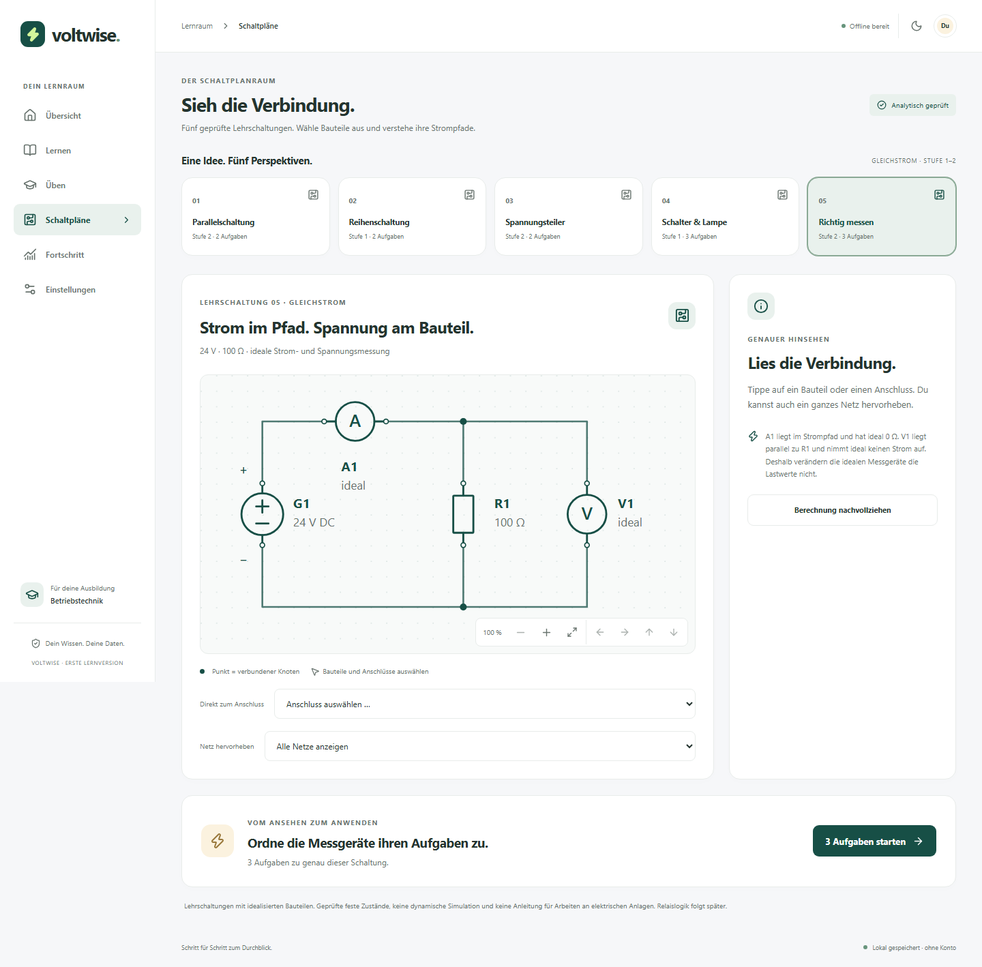
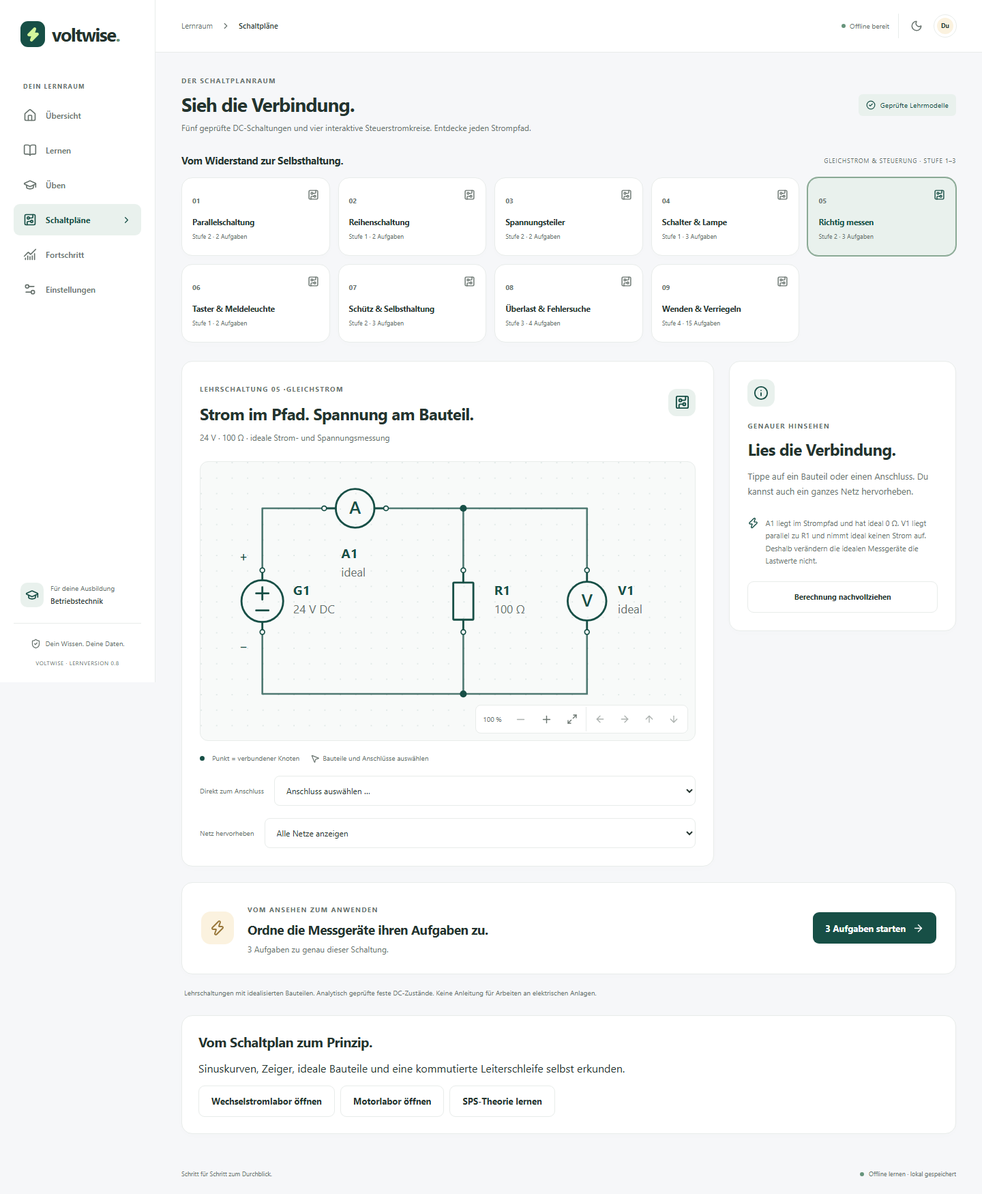
Document and release Voltwise 0.8 curriculum expansion

diff --git a/docs/SCHOOL_CURRICULUM.md b/docs/SCHOOL_CURRICULUM.md
@@ -1,0 +1,111 @@
+# Schulstoff und Labore — v0.8
+
+## Delivered scope
+
+The expansion adds **15 lessons, 75 curated exercises and 16 reproducible calculation families**. The complete curated catalogue now has **21 lessons and 136 exercises**. Existing DC, contactor, reversing, diagnostics, FSRS, backup and optional synchronization functionality remains available.
+
+| Area                 | New lessons | New exercises | Learning tools                                                                                                               |
+| -------------------- | ----------: | ------------: | ---------------------------------------------------------------------------------------------------------------------------- |
+| Wechselstromtechnik  |           6 |            29 | Sine/cursor animation, two voltage signals, phasors, ideal R/L/C, vector construction                                        |
+| Gleichstrommaschinen |           5 |            25 | Selectable cross-section, animated/stepped loop, commutation comparison, force/torque, counter-EMF, five excitation diagrams |
+| SPS-Grundlagen       |           4 |            21 | Theory, complete generator table, static verified FUP, FC/OB1/PLCSIM workflow, applied calculations                          |
+
+The user narrowed SPS to theory and learning exercises. A programmable SPS laboratory, FUP editor and hardware connection are deliberately outside this release. The Boolean graph code verifies the theory example; it is not an exposed editor or a TIA exporter.
+
+Open **Lernen** and use the grouped topic selector, or **Schaltpläne → Wechselstromlabor / Motorlabor**. The six top-level navigation entries remain. Topics stay accessible without prerequisite locks; prerequisites guide the mixed practice planner. New lessons start unread and new concepts have no invented score.
+
+The 75 tasks contain **23 numeric, 34 choice, 3 reviewable recall and 15 interactive applications**. Applications cover one waveform configuration, one phasor endpoint, three motor-component selections and ten multi-step calculations. Choice order is reproducibly varied. Only genuine recall facts offer separate explicit memory ratings; automatic correctness never becomes an FSRS rating.
+
+## Sources and editorial boundary
+
+The available attachment was a detailed curriculum specification. Neither `ROE: SPS TIA.pdf` nor `Arbeitsblatt 08-01.pdf` was present in the workspace; their scans and handwriting were **not inspected**. Page attribution is a scope mapping supplied by that specification, not a claim of direct transcription.
+
+Lessons and curated tasks carry `schulstoff-2026-10`, source A/B and page ranges. The core topics and classroom reference cases follow the supplied scope. All prose, diagrams, worked steps, additional examples and model assumptions are original didactic explanations. Generated variations are explicitly tagged `Ergänzende Erklärung`. The passive-load sign convention and precise motor angle geometry are documented teaching decisions.
+
+No worksheet scan, personal record or copied worksheet illustration is published. All diagrams use original SVG geometry; see [symbol provenance](CIRCUIT_SCHEMA.md). Secondary IP/cable/hexadecimal topics were not added. Ohm, power, series/parallel and measurement already have foundation coverage.
+
+Primary references consulted to check specific relationships, without copying their prose or artwork:
+
+- [OpenStax: simple AC circuits](https://openstax.org/books/university-physics-volume-2/pages/15-2-simple-ac-circuits): ideal R/L/C and lead/lag.
+- [OpenStax: current-loop force and torque](https://openstax.org/books/university-physics-volume-2/pages/11-5-force-and-torque-on-a-current-loop): vector force and angle-dependent torque. Our alpha is a radius angle; textbook normal-vector angles need conversion.
+- [Siemens: Function (FC)](https://docs.tia.siemens.cloud/r/simatic_s7_1200_manual_collection_enus_20/programming-concepts/using-blocks-to-structure-your-program/function-fc): no associated instance DB.
+- [Siemens SCE FC programming](https://www.automation.siemens.com/sce-static/learning-training-documents/tia-portal/basics-programming-s7-1200/sce-031-100-fc-programming-s7-1200-r1709-en.pdf): FC/OB1 and simulated testing workflow. V15.1 remains historical worksheet context, not a current-interface claim.
+
+Independent instructor review remains a separate editorial acceptance step.
+
+## AC conventions and equations
+
+`domain/ac.ts` contains pure SI calculations. Frequency/component values must be positive and finite. Unsupported zero-frequency/zero-component limits and overflow throw instead of displaying infinity.
+
+- `T = 1/f`, `ω = 2πf`, elapsed angle `α = ωt`.
+- `u(t) = Û sin(ωt + φ)`: positive φ leads the zero-phase sine.
+- `Ueff = Û/√2`, `Î = √2 Ieff`, only for a pure sine.
+- Same-frequency, same-quantity phasors: `x = U cos φ`, `y = U sin φ`, add components, use `atan2`. A zero-result angle displays 0° by convention.
+- R: `Ieff = Ueff/R`, current phase 0°, `P = Ueff Ieff`, `Q = 0`.
+- L: `XL = 2πfL`, `Ieff = Ueff/XL`, current phase −90°, `P = 0`, `Q = +Ueff Ieff`.
+- C: `XC = 1/(2πfC)`, `Ieff = Ueff/XC`, current phase +90°, `P = 0`, `Q = −Ueff Ieff`.
+
+Q uses the signed passive-load convention: inductive positive, capacitive negative, measured in var rather than W. The laboratory describes **one ideal component in sinusoidal steady state**. It does not solve arbitrary AC networks, transients, losses, saturation or equipment ratings.
+
+Waveforms share a 0…2T time window. At 50 Hz, T = 20 ms. The draggable model-time cursor controls values and synchronized rotating projections independently of zoom and pan. Animation is deliberately slowed; its refresh rate is not the electrical frequency. Voltage/current plots have separate V/A axes and solid/dashed curves. Their phasors are explicitly normalized to their own peaks. Vector addition instead labels actual RMS volts. Two voltage comparisons have their own clearly labeled amplitude scales.
+
+Independent fixtures: 325 V peak, 50 Hz, 1 ms → 18° and 100.430523 V. Also, 20 V at 0° + 15 V at 60° → x = 27.5 V, y = 12.990381 V, magnitude = 30.413813 V, angle = 25.284996°.
+
+## Motor convention and limits
+
+`domain/dc-motor.ts` models one loop with two axial active conductors. B points +x. Positive current in the first conductor points out of the drawing (+z), so `I·l × B` points +y. Alpha is its radius angle, counterclockwise from +x.
+
+The axial conductors remain perpendicular to B; each experiences `F = B I l`. The perpendicular lever arm changes, giving `M = 2 F r cos α` without commutation. The ideal split ring reverses current at 90°/270°. With original field/supply polarities, torque becomes `2 F r |cos α|`. Exact neutral contact is modeled as zero current. A single loop cannot self-start from its zero-torque dead position.
+
+Reference: B = 0.8 T, I = 2 A, l = 0.03 m → **0.048 N per conductor**. At r = 0.02 m, one perpendicular force contributes 0.00096 N·m; both together contribute **0.00192 N·m**. The factor two is not applied again as an additional conductor multiplier. Either field or supply reversal reverses torque; reversing both preserves it.
+
+Position, current arrows, forces, commutator and torque derive from the same angle state. Rotation speed is prescribed, not calculated from acceleration or load. Reduced-motion preference disables continuous motion but preserves steps and keyboard controls. Counter-EMF is a separate numeric operating point: `Ui = kΦω`, `IA = (U−Ui)/RA`; it is not inferred from animation speed. Ui > U gives signed generator current in this simplified equation.
+
+Seven selectable parts and five distinct excitation diagrams have explicit terminal/net membership. Compound winding sense is not assumed. Armature reaction, brush position, interpoles, compensation and bar/coil winding are taught qualitatively through explanations and cause/effect questions. No field solver, thermal model, real commutation transient, load characteristic or safety approval is represented.
+
+## SPS reference oracle
+
+Bit order: **E24.3 E24.2 E24.1 E24.0**. Motor powers 1…4: 2, 3, 5, 7 kW. **0 means running**, 1 means off. **A24.0 = 1 exactly when P < 10 kW**. The source introduction's “maximum 10 kW” is ambiguous; its explicit formula and supplied table govern this reproduction. Both 10-kW states are false.
+
+| Bits |  kW | A24.0 |
+| ---- | --: | ----: |
+| 1111 |   0 |     1 |
+| 1110 |   2 |     1 |
+| 1101 |   3 |     1 |
+| 1100 |   5 |     1 |
+| 1011 |   5 |     1 |
+| 1010 |   7 |     1 |
+| 1001 |   8 |     1 |
+| 1000 |  10 |     0 |
+| 0111 |   7 |     1 |
+| 0110 |   9 |     1 |
+| 0101 |  10 |     0 |
+| 0100 |  12 |     0 |
+| 0011 |  12 |     0 |
+| 0010 |  14 |     0 |
+| 0001 |  15 |     0 |
+| 0000 |  17 |     0 |
+
+`P/kW = 7(1−E24.3)+5(1−E24.2)+3(1−E24.1)+2(1−E24.0)`.
+
+Equivalent FUP: `(E24.1 ∧ E24.2) ∨ (E24.3 ∧ (E24.0 ∨ E24.1 ∨ E24.2))`. `boolean-logic.ts` checks gate arity, unique IDs, explicit input/`.Q` terminal references and absence of combinational cycles, even in unused branches. The reference graph is exhaustively compared to the independently declared 16-row oracle. The original static FUP has no implied junction at a wire crossing.
+
+## Persistence, IDs and units
+
+No new table, persisted draft or backup field is needed. **Dexie migrations remain 1→2→3; export stays format 3**, importing formats 1/2/3. Previous IDs, pending ratings, attempts, active sessions, diagnostic drafts and consent are preserved. No IndexedDB reset or Cloudflare production configuration change is used.
+
+`Exercise.type = application` has four strict bounded JSON `version: 1` answer kinds: waveform, physical phasor endpoint, motor part and named numeric steps. Unknown keys, invalid values, mismatched kinds and unsupported versions are rejected. They fit the existing 2000-character immutable answer field. Explicit submission uses the original transactional duplicate protection, session references, outbox and restore path. Backup and sync ingestion validate the same schema. Exploratory controls and unsubmitted forms are ephemeral; graded feedback/session position resume. Animation and slider streams never synchronize.
+
+New immutable IDs: `ac1-<family>-<code>`, `motor1-<family>-<code>`, `plc1-<family>-<code>`. Six-digit codes use fixed integer selection (LCG 1664525/1013904223, fixed name hash, parameter lists and draw order). Changing any released generator behavior requires a new prefix and retention of the old resolver. The old `dc1` implementation is unchanged. URLs contain only public selectors/codes. Existing active work resumes before a new round.
+
+AC has ten families: period, frequency, angle, RMS, peak, instantaneous value, XL, XC, R current, vector sum. Motor has four: force, two-conductor torque, armature current, startup current. SPS theory has two: active-low load and signed distance to the strict limit. Rounds contain 10/4/2 tasks respectively.
+
+`units.ts` separates physical dimensions, SI multipliers and display spellings. It supports s/ms, degrees/radians, H/mH, F/µF/nF, T/mT, N/mN, N·m/mN·m and var/kvar alongside previous units. Angle SI is radians. German decimal commas and compatible prefixes work. W and var, force and torque, or V and A are not interchangeable. Numeric tolerance is visible: new numeric/generated tasks use 0.1%, with ±10⁻⁹ at zero; multi-step fields show individual absolute bounds. Vector placement uses ±0.3 V/±1°; waveform settings use ±0.1 V/±0.1 Hz/±1°. Grading never compares screen pixels.
+
+## Evidence and remaining acceptance
+
+See [verification](VERIFICATION.md) for executed command results. Tests include independent AC/force/torque fixtures, waveform/phase consistency, every rotor degree and both polarity reversals, explicit excitation nets, all 16 PLC rows, invalid graph cases, every structured submission, 128-code sweeps across 16 generated families, pinned generator fixtures, old backups and pending ratings. Real local Worker/D1 tests transfer all four answer kinds and generated prefixes across three databases without duplicate events or invented memory reviews.
+
+Browser evidence covers desktop/mobile, both themes, 320/375/390/430 CSS-pixel widths, keyboard selection, model coordinates after zoom/pan, animation/pause/reduced motion, strict PLC boundaries, existing-session precedence, graded offline resume and offline lab loading. Fourteen new Windows image references cover R/L/C, phasors, motor at 0°/90° and SPS theory. Existing diagram baselines are retained.
+
+Physical iPhone Safari, installed-PWA updates, macOS installation, real OAuth/Cloudflare setup and independent instructor review remain separate manual acceptance. Pages remains local-only. The next milestone should prioritize teacher-reviewed explanations and actual-device acceptance before extending machine dynamics or adding an optional SPS editor.

diff --git a/README.md b/README.md
@@ -33,7 +33,7 @@ For browser tests, install Chromium once with `pnpm exec playwright install chro
 ## Included now
 
 - Six responsive sections: Übersicht, Lernen, Üben, Schaltpläne, Fortschritt and Einstellungen; desktop sidebar and phone bottom navigation.
-- Six lessons and **61 checked exercises**, including choices, typed recall, unit-aware calculations, component selection and twelve interactive diagnostic investigations.
+- 21 German lessons and **136 checked curated exercises**, including choices, typed recall, unit-aware calculations, waveform/phasor construction, motor component selection, multi-step applications and twelve diagnostic investigations.
 - A DC calculation trainer with five reproducible numeric templates, matching series/parallel diagrams, shareable round codes and offline backup/restore support.
 - Atomic IndexedDB persistence through Dexie, resumable sessions, immutable attempts/review events and separate explicit FSRS memory ratings.
 - Stable `ts-fsrs@5.4.2` behind an adapter, a due queue, actual activity and an explained practice metric.
@@ -46,6 +46,22 @@ For browser tests, install Chromium once with `pnpm exec playwright install chro
 - Light/dark/system themes, local daily goal, installation guidance and an offline app shell that precaches lesson/code assets, including lazy-loaded screens.
 
 GitHub Pages remains the **local-only edition**. The synchronized edition requires a deliberate same-origin Cloudflare deployment; it has been tested locally, not deployed to a production account. There is no automatic GitHub backup, general industrial network simulator or complete apprenticeship curriculum. The private data repository remains untouched. Browser/cloud storage is not an independent backup; export regularly. Install/read the app online once and wait for **Offline bereit** before relying on airplane-mode access. The development server does not register the production service worker.
+
+## Schulstoff, Wechselstrom und Motoren — v0.8
+
+Open **Lernen** for 15 new focused lessons and 75 new tasks: six AC units, five DC-machine units and four SPS theory units. The grouped topic selector keeps every subject accessible. Prerequisites are recommendations; new lessons and concepts start without invented completion or mastery.
+
+**Schaltpläne → Wechselstromlabor** connects adjustable sine curves, a draggable time cursor, RMS/peak values, signed phases, synchronized phasors and ideal R/L/C circuits. Compare two voltages, predict frequency effects and construct a physical voltage-vector endpoint. Voltage/current plots label separate V/A scales; reactive power uses positive inductive and negative capacitive var.
+
+**Schaltpläne → Motorlabor** shows seven selectable parts, prescribed/stepped rotor motion, current reversal, neutral positions, force and angle-dependent torque. Compare operation with/without the ideal split ring, reverse field/supply, calculate counter-EMF current and inspect five excitation topologies. Rotation is a teaching animation, not a calculated startup/load transient.
+
+SPS is **theory and learning exercises**, as requested: active-low inputs, AND/OR/NOT, the complete 16-case generator table, both rejected 10-kW boundaries, a checked static FUP and the historical TIA/FC/OB1/PLCSIM workflow. There is no SPS laboratory or FUP editor.
+
+![Ideal inductor: synchronized waveforms and phasors](docs/screenshots/school-ac-L-dark-desktop.png)
+
+Sixteen new reproducible numeric families use immutable `ac1`, `motor1` and `plc1` IDs; existing `dc1` IDs remain unchanged. [AC round](https://maxello1.github.io/voltwise/#/ueben?trainer=ac&code=000000) · [Motor round](https://maxello1.github.io/voltwise/#/ueben?trainer=motor&code=000000) · [SPS calculation round](https://maxello1.github.io/voltwise/#/ueben?trainer=plc&code=000000).
+
+Only explicit answer submission records an attempt. Exploration is ephemeral, graded feedback resumes offline, and calculation/application scores remain separate from explicit FSRS memory ratings. Database schema 3 and backup format 3 are unchanged; old migrations and backup 1/2 imports remain supported. The supplied specification defines the coursework scope; source scans were unavailable and are not published. See [curriculum, equations, references, limits and compatibility](docs/SCHOOL_CURRICULUM.md).
 
 ## Optional secure synchronization — v0.7
 

diff --git a/docs/VERIFICATION.md b/docs/VERIFICATION.md
@@ -1,5 +1,29 @@
 # Verification
 
+## v0.8 verification — 26 October 2026
+
+Base: `eb713a82e3db5e9eacb1fecc5331f7e6f1392d66`, containing the complete compatible v0.7 history. The implementation was made on `main` by explicit user instruction, with no new PR. Existing #6 was already merged into #5's branch; #5 and then #4 were merged in dependency order. Earlier dated verification entries below remain historical evidence.
+
+Environment: Windows, Node 24.14.1, pnpm 11.25.0, Playwright 1.64.1 and cached Chromium. Dependencies and all numbered database migrations are unchanged. Database/backup versions remain 3.
+
+| Required check            | Executed result                                                                            |
+| ------------------------- | ------------------------------------------------------------------------------------------ |
+| `pnpm lint`               | Passed, zero warnings                                                                      |
+| `pnpm typecheck`          | Passed                                                                                     |
+| `pnpm test`               | Passed: 225 domain/component/IndexedDB/deployment tests plus 19 real local Worker/D1 tests |
+| `pnpm build`              | Passed: local-only PWA, 37 precached entries                                               |
+| `pnpm test:e2e`           | Passed: 98 local-only browser cases plus six cloud browser cases, no Windows skips         |
+| Original image references | All 16 retained and passing without regeneration                                           |
+| New image references      | 14 AC/R/L/C/phasor/motor/SPS-theory images, reviewed and compared normally                 |
+
+The 75 new curated tasks and 15 lessons are validated against the original catalogue. Independent fixtures cover time/RMS/sine/phasor arithmetic, signed R/L/C powers, every rotor degree with/without commutation, field/current reversal and explicit motor excitation nets. A separately written 16-case PLC oracle verifies active-low inputs, exact loads, both rejected 10-kW states and equivalent Boolean behavior. The 16 new generated families have a 128-code independent-equation sweep and pinned v1 values; dc1 remains protected by its old tests.
+
+All four structured application formats pass duplicate-safe submission, pending-answer reopen, backup3 additive/idempotent restore and strict version validation. Legacy backup1 pending FSRS ratings and backup2 diagnostic drafts survive. Real local Worker/D1 convergence transfers all four formats and new generator prefixes across three device databases without duplicate events or memory cards. Browser cloud identity is synthetic; cookies, Worker, D1 and offline/reconnect paths are real local infrastructure.
+
+Browser coverage includes both themes and 320/375/390/430 CSS-pixel layouts, original functionality, keyboard motor selection, model-coordinate cursor/vector placement after zoom/pan, deterministic animation and pause, reduced motion, old-session precedence, school code links, graded offline resume and lazy-loaded labs offline. Initial checks found long-title overflow and completed-session navigation issues; both were corrected. The original diagram image positions were preserved rather than replacing their baselines. A prior fixed catalogue-size expectation was correctly updated from 61 to 136.
+
+Local network restrictions initially blocked Worker/preview connections; the final complete suites ran with localhost access and passed. Scans were unavailable; source mappings derive from the supplied specification, not direct scan inspection. Physical Safari/Home Screen/macOS installation, actual installed-PWA updates, independent teacher review and real OAuth/Cloudflare deployment remain separate acceptance. See [models, provenance and exact scope](SCHOOL_CURRICULUM.md).
+
 ## v0.7 verification — 25 October 2026
 
 Base: `3df9f4caa03874a763335dd73bd9256507eed8ed`, the published correction on `codex/advanced-diagnostics-v06`. PR #4 and #5 remain open and unmerged. `feat/secure-sync-v07` is stacked on the corrected v0.6 branch; no old-main implementation, history rewrite, private-data-repository change or production deployment is included.

diff --git a/docs/BACKLOG.md b/docs/BACKLOG.md
@@ -1,10 +1,16 @@
 # Delivery status and issue-ready backlog
 
-The current version includes the repository/toolchain, offline shell plus Fehlersuche, stable FSRS adapter, 61 curated exercises, five reproducible DC calculation templates, six lessons, five verified DC library circuits, four interactive control circuits, backups and deployment automation. v0.6 adds twelve complete diagnostic investigations across six electrical fault/permission families, signed virtual DC measurements and persisted drafts with numbered migration 2. Real-device acceptance and wider qualified curriculum review remain before full alpha acceptance is claimed.
+## Current delivery — v0.8
+
+The latest release adds 15 lessons, 75 curated tasks and 16 reproducible calculation families: 21 lessons and 136 curated tasks in total. The AC and DC motor laboratories are integrated with normal learning, history, backup and offline use. SPS is theory, truth-table/FUP explanation and learning tasks; its interactive laboratory/editor was explicitly deferred. No schema upgrade was needed. See [delivered curriculum, assumptions and precise limits](SCHOOL_CURRICULUM.md).
+
+Next: qualified instructor review, physical Safari/installed-PWA acceptance and practical feedback on the focused lessons. A general AC network solver, motor dynamics, magnetic-field simulation, real SPS/TIA export and an interactive SPS editor remain outside this delivery. Earlier sections below record prior release scopes.
+
+The v0.6 baseline included the repository/toolchain, offline shell plus Fehlersuche, stable FSRS adapter, 61 curated exercises, five reproducible DC calculation templates, six lessons, five verified DC library circuits, four interactive control circuits, backups and deployment automation. v0.6 adds twelve complete diagnostic investigations across six electrical fault/permission families, signed virtual DC measurements and persisted drafts with numbered migration 2. Real-device acceptance and wider qualified curriculum review remain before full alpha acceptance is claimed.
 
 ## v0.7 synchronization delivery
 
-Optional single-owner Worker/D1 synchronization, identity-only GitHub OAuth/PKCE, immutable event batches, atomic outbox, server cursors, deterministic FSRS replay, local-only session/draft boundaries, additive migration 3 and backup 3 are implemented and tested locally. A manually dispatched Cloudflare workflow and exact setup/recovery guides are prepared. Required real account/OAuth/D1/origin configuration is not supplied; production deployment and live login remain outstanding. The parent PRs remain unmerged.
+Optional single-owner Worker/D1 synchronization, identity-only GitHub OAuth/PKCE, immutable event batches, atomic outbox, server cursors, deterministic FSRS replay, local-only session/draft boundaries, additive migration 3 and backup 3 are implemented and tested locally. A manually dispatched Cloudflare workflow and exact setup/recovery guides are prepared. Required real account/OAuth/D1/origin configuration is not supplied; production deployment and live login remain outstanding. The stacked parent changes were merged into main in dependency order on 26 October 2026.
 
 Before live adoption: configure a protected deployment environment, run real OAuth/allowlist/revocation acceptance, verify physical iPhone Safari/Windows/macOS installation/update/offline behavior, check actual Free CPU/quotas, and perform a private rollback/recovery drill. Self-service account deletion, end-to-end encryption, unfinished-session sync, scheduler-version upgrades, private GitHub/Obsidian archive automation and arbitrary electrical simulation remain outside v0.7.
 

diff --git a/docs/LEARNING_MODEL.md b/docs/LEARNING_MODEL.md
@@ -58,3 +58,9 @@ References checked: [FSRS adapter API](https://open-spaced-repetition.github.io/
 The shared schedule uses server acceptance sequence for acknowledged reviews and a provisional local timestamp/UUID tail. Every rating is replayed through the existing FSRS adapter from an empty card. Accepted event times are capped at receipt time and clamped against the previous replay time; slow clocks/late delivery can therefore change derived dates. Original ratings, timestamps, cards and logs remain unchanged. Equal supported event/receipt sets converge, while unknown scheduler revisions or reference/UUID conflicts stop sync visibly without deleting either source. This is an explicit ordering policy, not a reconstruction of actual human recall times.
 
 Submitted attempts, reviews and lesson events synchronize; local active sessions, pending ratings, investigation drafts and preferences do not. Remote session descriptors make history reconstructable without inventing completed sessions or making another device's unfinished work resumable. Statistics continue to derive from original events; session completion counts refer only to actual local session records. The full replay and clock policy is in [SYNC_DESIGN.md](SYNC_DESIGN.md).
+
+## Applied school learning — v0.8
+
+Fifteen added topics extend the same prerequisite graph, concept evidence, planner, completion events and progress displays. All new lessons start unread. Six AC, five motor and four SPS theory units remain selectable without locks. The mixed plan uses prerequisites; targeted selection remains explicit.
+
+Three added recall facts offer a separate memory rating. The other 72 curated additions and all generated rounds are application practice. Four structured response kinds persist only on explicit submission; visual exploration creates no attempts. Original and normalized submissions, hint use, duration, duplicate protection and pending feedback follow the original learning transaction. Unsubmitted controls are ephemeral. Physical phasor values and declared tolerances determine grading, independently of display pixels. See [school content and precise limits](SCHOOL_CURRICULUM.md).

diff --git a/docs/ARCHITECTURE.md b/docs/ARCHITECTURE.md
@@ -62,3 +62,9 @@ Browser storage is scoped to origin and browser profile. GitHub Pages, localhost
 Numbered migration 3 adds immutable sync envelopes, receipts, local cloud state and historical session descriptors. `storage/sync.ts` supplies initial discovery and atomic queue commands, while `sync/engine.ts` validates acknowledgments/downloads and applies pages with cursor advancement in one IndexedDB transaction. Only original events and immutable session descriptors travel; remote active sessions/drafts/preferences never replace local work. Backup format 3 preserves these references and ordering while accepting formats 1/2.
 
 `domain/reconciliation.ts` replays every explicit FSRS rating with server-sequence order plus a provisional local tail and documented nondecreasing effective timestamps. Original cards/logs remain immutable. `sync/runtime.ts` handles visible-app triggers, multi-tab locks and bounded retry, separately from learning commands. See [design](SYNC_DESIGN.md), [protocol](SYNC_PROTOCOL.md), [deployment](CLOUD_DEPLOYMENT.md) and [migration](DATA_MIGRATION.md).
+
+## School curriculum and laboratories — v0.8
+
+Pure reference models live in `domain/ac.ts`, `dc-motor.ts`, `boolean-logic.ts` and `plc-generator.ts`. `units.ts` separates physical dimensions and SI factors. `school-curriculum.ts` adds 15 topics/lessons and 75 tasks to the existing graph. The AC/motor routes reuse the shell, themes, normal learning transactions and original SVG geometry. SPS is theory and a verified static FUP; its interactive editor was deferred by request.
+
+`application.ts` defines strict version-1 waveform, physical phasor, motor-part and numeric-step payloads. Catalogue, submission, backup and sync validation share those definitions. Explicit attempts/pending feedback persist; controls remain ephemeral. `school-practice.ts` resolves immutable ac1/motor1/plc1 IDs without altering dc1. No database or backup-version change is needed. See [models, provenance and compatibility](SCHOOL_CURRICULUM.md).

diff --git a/CHANGELOG.md b/CHANGELOG.md
@@ -1,5 +1,15 @@
 # Changelog
 
+## 0.8.0 — 2026-10-26
+
+- Added 15 original German school lessons and 75 curated tasks across AC, DC machines and SPS theory; the complete catalogue has 21 lessons and 136 tasks.
+- Added a sine/cursor/phasor workbench, comparison of two voltage signals, and synchronized ideal R/L/C schematics, distinct V/A scales, frequency predictions and signed reactive power.
+- Added a selectable seven-part motor cross-section, prescribed/stepped rotation, ideal commutation and neutral positions, force/torque vectors, polarity comparison, counter-EMF arithmetic and five excitation diagrams.
+- Added the full independently checked active-low generator truth table, both strict 10-kW boundaries, a static verified FUP and FC/OB1/PLCSIM theory. A programmable SPS lab/editor is deferred by request.
+- Added four bounded versioned application answer formats and 16 reproducible calculation families using new ac1/motor1/plc1 prefixes; retained all dc1 behavior and historical resolvers.
+- Extended dimension-aware units, explicit numeric tolerances, normal sessions/recommendations/history, duplicate-safe submission, additive backups and immutable optional synchronization. Database/backup versions stay 3; no data clearing or cloud production setup change.
+- Added independent mathematical references, exhaustive PLC/rotor tests, generated-family sweeps, backup3/legacy restoration, real local D1 three-device convergence, desktop/mobile/offline checks and scoped original SVG image references.
+
 ## 0.7.0 — 2026-10-25
 
 - Added optional same-origin Cloudflare Worker/D1 learning-history synchronization with identity-only GitHub OAuth, S256 PKCE, one-time state, a stable single-owner allowlist, opaque server sessions, CSRF/Origin validation and sticky device revocation.

diff --git a/docs/DECISIONS.md b/docs/DECISIONS.md
@@ -12,3 +12,9 @@
 10. Create repositories using the existing Git sign-in and GitHub REST API; push through Git. No GitHub CLI or second browser login is required.
 11. Keep practice selection transparent and separate from FSRS. Use the last twenty attempts per concept, report small samples honestly, honor read prerequisites in the mix and allow direct topic/concept choice. Exclude future scheduled facts from practice; improve recall formatting without rewriting existing events or changing content IDs/versions.
 12. Reconstruct generated DC tasks from immutable `dc1` template/code IDs instead of introducing new user tables or changing backup schema 1. Keep the released algorithm available indefinitely for saved history. New equations or parameter-selection changes require a new generator version. Generated attempts affect practice evidence, never the memory schedule.
+
+## 26 October 2026 — focused school expansion
+
+Keep physics, Boolean evaluation, SI conversions and grading outside React/SVG. Introduce four bounded inner version-1 application responses in the existing immutable answer field; no schema migration is needed for ephemeral lab controls. Preserve dc1 and add separate immutable ac1/motor1/plc1 families. Use an explicitly defined two-conductor motor loop and single-component steady-state AC models rather than imply general simulation. Use active-low feedback and strict P < 10 kW for the school generator oracle.
+
+Prioritize AC and DC motor laboratories. By explicit user correction, SPS is theoretical lessons, a static verified FUP and learning tasks; a programmable SPS lab/editor is deferred. Source page mappings come from the supplied specification, since scans were unavailable. All prose/diagrams are original. See [delivery and evidence](SCHOOL_CURRICULUM.md).

diff --git a/docs/DATA_MIGRATION.md b/docs/DATA_MIGRATION.md
@@ -37,3 +37,7 @@ For an immutable conflict or unsupported revision, retain both backups, leave th
 For quota/network failures, continue locally, export and retry when service recovers. A quota failure during local storage prevents the action transaction from committing; the UI reports the failed save, rather than claiming it was queued.
 
 For a server restore/Time Travel, first export current client backups and D1 data privately. Restoring an older D1 snapshot can invalidate previously acknowledged sequences or omit accepted events. Do not resume those clients blindly: reconcile the retained JSON copies administratively into the chosen server history, or initialize a distinct application origin and deliberately import the preserved backups. A cursor alone cannot prove that a rolled-back server still has all client-acknowledged records. Do not simply reset/delete local databases. See [deployment recovery](CLOUD_DEPLOYMENT.md).
+
+## v0.8 content compatibility
+
+The numbered schema-1/2/3 history and backup format 3 remain unchanged; imports of backup 1/2/3 still run through the original additive path. No new table or persisted control draft is required. School applications use the existing bounded answer string with a strict inner version 1. Backups/sync ingestion reject malformed or unsupported payloads. Historical dc1 IDs and all prior content versions remain resolvable; new ac1/motor1/plc1 prefixes are additive. Tests cover every application format, pending feedback, duplicate submissions, old pending ratings, old diagnostic drafts and idempotent fresh-database restore. Export to an older release cannot imply forward recognition of v0.8 content IDs. No local learning database is cleared.

diff --git a/docs/CIRCUIT_SCHEMA.md b/docs/CIRCUIT_SCHEMA.md
@@ -64,3 +64,9 @@ Supported terminal-pair voltages are defined by the domain model and its explici
 7. Add three-phase/star-delta motor controls, timers, sensors, PLC I/O and multi-sheet fault scenarios only after editorial and model review.
 
 Avoid deriving electrical connectivity from intersecting SVG paths. Future simulation state must reference a stable circuit revision and an explicit supported model. Safety behavior cannot be inferred from an attractive drawing.
+
+## Original school laboratory artwork — v0.8
+
+`features/school-lab/AcLab.tsx`, `Waveform.tsx`, `MotorDiagram.tsx` and `PlcTheory.tsx` use original SVG paths, circles, rectangles and text for sine plots, phasors, the R/L/C source/component drawings, motor cross-section, five excitation topologies and the static Boolean FUP. No worksheet graphics, Siemens/IEC artwork, raster generation or external symbol library was copied. Elementary geometry is DIN/IEC-inspired without a certification/conformance claim.
+
+The AC diagrams are bounded one-component teaching models; they do not extend the old schematic DSL into an arbitrary AC solver. Motor position/force/current share `motorState`. Excitation terminal membership is explicit in `excitationNets`. The static FUP illustrates the validated `referenceFup` graph with named terminals; wire crossings without dots imply no junction. Independent terminal/topology/phase tests and 14 new scoped Windows image references complement the retained original circuit tests. See [physical and geometric conventions](SCHOOL_CURRICULUM.md).

diff --git a/docs/GENERATED_PRACTICE.md b/docs/GENERATED_PRACTICE.md
@@ -45,3 +45,7 @@ The current app imports older version-1 curated backups and generated-round back
 - Diagram tests check net/terminal integrity, source/load labels, matching answers, power balance and unchanged shared templates.
 - Storage tests cover concurrent startup, pending-answer reload, complete rounds, additive/idempotent fresh-device restore and malformed/version-forged backups.
 - Browser cases cover code controls, both themes, preserved older sessions, the canonical copied link, full offline rounds, generated diagrams, history links and offline JSON restoration in an isolated browser profile. Clipboard writing is stubbed only in the link-content test; native clipboard permissions remain a browser-dependent behavior with a visible fallback.
+
+## Additive school calculation contracts — v0.8
+
+The five dc1 templates and their released algorithms remain unchanged. The new independent ac1/motor1/plc1 prefixes add 10/4/2 families respectively. Fixed integer selection, immutable parameter lists and pinned reference IDs preserve reproducibility. Rounds have 10/4/2 tasks and share only area/code. Independent 128-code sweeps check every family and visible answer roundtrips; fresh-device restore and real D1 convergence cover all prefixes. New quantities retain physical dimensions, with visible 0.1% tolerance and a 1e-9 bound at zero. See [families, units and compatibility](SCHOOL_CURRICULUM.md).

diff --git a/docs/CONTENT_REVIEW.md b/docs/CONTENT_REVIEW.md
@@ -34,3 +34,7 @@ Recommendations report the last twenty attempts per concept, count hinted answer
 ## Remaining review
 
 Before expanding to AC, protection or real installation work, obtain qualified editorial/pedagogical review and extend reference cases. The present finite DC examples and their ideal meter/lamp assumptions are educational models. Physical iPhone/Mac installation acceptance remains tracked separately in issue 2.
+
+## School expansion review — 26 October 2026
+
+The catalogue now has 21 lessons and 136 curated tasks. The 15 added lessons and 75 tasks cover the supplied AC/motor/SPS scope with original explanatory prose, 15 applied interactions and independent reference checks. There are no source scans in this checkout; provenance maps the detailed supplied specification to source/page ranges. AC and motor models state their assumptions, and all 16 active-low generator states include both rejected 10-kW cases. Secondary protection/cable/hexadecimal topics are deferred. This is implementation and automated reference evidence, with independent instructor review still outstanding. See [content, conventions and primary references](SCHOOL_CURRICULUM.md).
